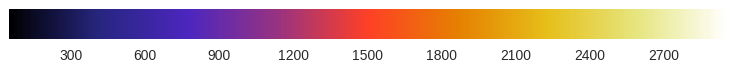
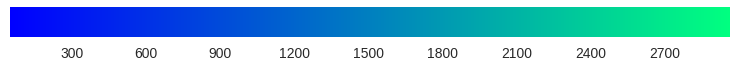
updated colormap

diff --git a/webserver.py b/webserver.py
@@ -44,7 +44,7 @@ parser.add_argument('--gifs', dest='gifs', type=str, help='directory with animat
 parser.set_defaults(gifs='static/rnn_gifs')
 args = parser.parse_args()
 
-chebi_colormap = matplotlib.cm.get_cmap('CMRmap')
+chebi_colormap = matplotlib.cm.get_cmap('jet')
 
 chebi_mainresults = []
 chebi_formulalists = []
